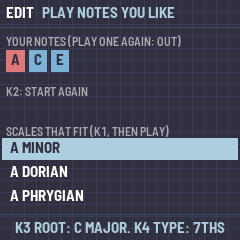
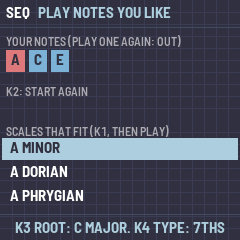
0.42: EDIT is pad edit (the window; SHIFT: LOCK); SEQ holds your notes, the scale, the root, the type
Claude-Session: https://claude.ai/code/session_011auXBbJuCRdHVG1fENKT8m

Changed region(s): [[0.0, 0.0292, 0.7292, 0.0875]]

diff --git a/app/app.c b/app/app.c
@@ -4,7 +4,7 @@
  * As MPS-16 ver WEB's SEED. CHORD KEYS (white 1-8), PROGRESSION KEYS (white 9-16), NOTE KEYS (black 1-7), the C pads
  * (BASS, NO BASS, NO ROOT, TAP). A change goes to the group played last; hold a key: that key (SELECT, PRESET, ALGO:
  * its group: sound or MIDI 1-4, the window's START, END). The buttons as they're named: HOME (held: SHIFT), EDIT your
- * notes, scale, root, type; SEL the library; ARP the rhythm (SHIFT: UNDO); SEQ the window (SHIFT: LOCK); ENV the
+ * pad edit, the window (SHIFT: LOCK); SEQ your notes, scale, root, type; SEL the library; ARP the rhythm (SHIFT: UNDO); ENV the
  * notes' shape; LFO the groove; FX SOUND (held: SETUP; SHIFT: COACH); SAVE (held: LOAD); PLAY and REC the looper;
  * GLO STOP ALL; OCT- / OCT+ octave. MIDI over USB and Bluetooth, clock out and in.
  *
@@ -2249,18 +2249,18 @@ buttons:
                 ev_push(QE_PSTART, PREVIEW, 100);
             } else
                 loop_play();
-        } else if (i == B_EDIT) {        /* EDIT: what the keys hold: your notes, the scale, the root, the type */
+        } else if (i == B_SEQ) {         /* SEQ: what the keys hold: your notes, the scale, the root, the type */
             if (ui.screen == SCR_PICK)
                 ui.screen = SCR_HOME;
             else {
                 pick_enter();
-                app_say("EDIT", "PLAY NOTES YOU LIKE");
+                app_say("SEQ", "PLAY NOTES YOU LIKE");
             }
         } else if (i == B_SEL) {         /* LIB */
             ui.screen = ui.screen == SCR_LIB ? SCR_HOME : SCR_LIB;
-        } else if (i == B_SEQ || i == B_ENV || i == B_LFO) {   /* the key pages; SHIFT + SEQ: LOCK */
-            uint8_t pg = i == B_SEQ ? PG_SEQ : i == B_ENV ? PG_ENV : PG_LFO;
-            if (i == B_SEQ && shift()) {
+        } else if (i == B_EDIT || i == B_ENV || i == B_LFO) {   /* EDIT: pad edit (the window); SHIFT + EDIT: LOCK */
+            uint8_t pg = i == B_EDIT ? PG_SEQ : i == B_ENV ? PG_ENV : PG_LFO;
+            if (i == B_EDIT && shift()) {
                 if (ui.pad < 0 || pads[ui.pad].type == PAD_EMPTY)
                     app_say("LOCK", "PLAY A KEY FIRST");
                 else {
@@ -2473,7 +2473,7 @@ buttons:
             char t[12];
             if (ui.page == PG_SEQ) {
                 if (k1 || k2 || k3 || k4)
-                    app_say("SEQ", "PRESET: START. ALGO: END");
+                    app_say("EDIT", "PRESET: START. ALGO: END");
             } else if (r < 0) {          /* the note keys: HUMANIZE only */
                 if (k2 && ui.page == PG_ENV) {
                     set.nhum = (uint8_t)clamp(set.nhum + 5 * k2, 0, 50);
@@ -2686,7 +2686,7 @@ static void lights(void)
         if (ui.coach == CS_NOTES && !fd_n && blink)
             for (i = 0; i < NKEYS; i++)
                 dim |= 1u << i;
-        btn = 1u << B_EDIT;
+        btn = 1u << B_SEQ;
         if (fd_cnt && (ui.coach != CS_SCALE || blink))
             btn |= 1u << B_PLAY;
         plat_lights(btn | ui.btn, bright, 1u << B_GLO, dim, 1);
@@ -2742,9 +2742,9 @@ static void lights(void)
         btn |= 1u << B_REC;
     if (lp_run != LR_STOP)
         btn |= 1u << B_PLAY;
-    btn |= 1u << (ui.screen == SCR_LIB ? B_SEL : ui.screen == SCR_PAD ? (ui.page == PG_SEQ ? B_SEQ : ui.page == PG_ENV ? B_ENV : B_LFO)
+    btn |= 1u << (ui.screen == SCR_LIB ? B_SEL : ui.screen == SCR_PAD ? (ui.page == PG_SEQ ? B_EDIT : ui.page == PG_ENV ? B_ENV : B_LFO)
                   : ui.screen == SCR_SOUND ? B_FX
-                  : ui.screen == SCR_SETUP ? B_FX : ui.screen == SCR_LOOP ? B_REC : ui.screen == SCR_PICK ? B_EDIT
+                  : ui.screen == SCR_SETUP ? B_FX : ui.screen == SCR_LOOP ? B_REC : ui.screen == SCR_PICK ? B_SEQ
                   : B_HOME);
     plat_lights(btn | ui.btn, bright, 1u << B_GLO, dim, 1);
     plat_lights_mid(0, mid);
@@ -3016,7 +3016,7 @@ static void draw_pick_top(void)
     uint32_t i;
     int32_t x = 6;
     lab_begin();
-    top_bar("PICK NOTES", WATER_C);
+    top_bar("SEQ: YOUR NOTES", WATER_C);
     if (!fd_n) {
         text_c(44, &FONT_M, "PLAY NOTES", C_WHITE);
         text_c(72, &FONT_B, "ANY KEYS, AS MANY AS YOU LIKE", LAB_LABEL);
@@ -3254,7 +3254,7 @@ static void draw_pad(void)               /* EDIT: the group played last (or the 
     static const char *const LBE[4] = {"K1 LENGTH", "K2 HUMAN", "K3 VELOCITY", "K4 STRUM"};
     static const char *const LBL_[4] = {"K1 SWING", "K2 SPEED", "K3 INVERT", "K4"};
     static const char *const LB2[3] = {"SELECT SOUND", "PRESET START", "ALGO END"};
-    static const char *const PGN[3] = {"SEQ ", "ENV ", "LFO "};
+    static const char *const PGN[3] = {"EDIT ", "ENV ", "LFO "};
     const char *const *LBL = ui.page == PG_LFO ? LBL_ : LBE;
     uint32_t k;
     lab_begin();

diff --git a/app/docs/MANUAL.md b/app/docs/MANUAL.md
@@ -13,10 +13,10 @@ This is an early test build by BeatSmith.
 2. [The first start: COACH](#2-the-first-start-coach)
 3. [The keys](#3-the-keys)
 4. [Home](#4-home)
-5. [EDIT: your notes, the key, the type](#5-edit-your-notes-the-key-the-type)
+5. [SEQ: your notes, the key, the type](#5-seq-your-notes-the-key-the-type)
 6. [LIB](#6-lib)
 7. [Hold a key: SELECT, PRESET, ALGO](#7-hold-a-key-select-preset-algo)
-8. [ARP, SEQ, ENV, LFO and LOCK](#8-arp-seq-env-lfo-and-lock)
+8. [EDIT, ARP, ENV, LFO and LOCK](#8-edit-arp-env-lfo-and-lock)
 9. [LOOP, UNDO, SAVE and LOAD](#9-loop-undo-save-and-load)
 10. [SOUND, MIDI and SETUP](#10-sound-midi-and-setup)
 11. [All the controls](#11-all-the-controls)
@@ -87,10 +87,10 @@ The buttons are named for what they do:
 | Button | Does |
 |---|---|
 | HOME | Home. Held: SHIFT |
-| EDIT | What the keys hold: your notes, the scale, the root, the chord type |
+| EDIT | Pad edit: the window, START and END, with the notes and playhead. SHIFT + EDIT: LOCK |
+| SEQ | What the keys hold: your notes, the scale, the root, the chord type |
 | SEL | LIB: chords and progressions to put on keys |
 | ARP | The RHYTHM of the group played last, one step a tap. SHIFT + ARP: UNDO |
-| SEQ | The window: START and END. SHIFT + SEQ: LOCK |
 | ENV | The notes' shape: LENGTH, HUMANIZE, VELOCITY, STRUM |
 | LFO | The groove: SWING, SPEED, INVERSION |
 | FX | SOUND. Held: SETUP. SHIFT + FX: COACH |
@@ -110,11 +110,11 @@ same value. LOCKed keys are left out of group changes.
 
 ![NO BASS](img/seed-home-nobass.png)
 
-## 5. EDIT: your notes, the key, the type
+## 5. SEQ: your notes, the key, the type
 
-![EDIT](img/seed-pick.png)
+![SEQ](img/seed-pick.png)
 
-Press **EDIT**. Every key is now a note, like a normal keyboard. Play the notes you like: each one you play is added,
+Press **SEQ**. Every key is now a note, like a normal keyboard. Play the notes you like: each one you play is added,
 and playing it again takes it out. The scales that hold all of them are listed below, best first (the first note
 you played as the root). Turn **K1** to choose one and press **PLAY**: the keys are rebuilt in that key.
 
@@ -125,7 +125,7 @@ you played as the root). Turn **K1** to choose one and press **PLAY**: the keys 
 | K3 | The key's root |
 | K4 | TYPE: TRIADS, 7THS, 9THS, SUS2, SUS4, ADD9 |
 
-EDIT again (or HOME) goes back.
+SEQ again (or HOME) goes back.
 
 ## 6. LIB
 
@@ -162,17 +162,17 @@ This is not note LENGTH (ENV K1), which is how long each note lasts.
 
 Parked for now, to be placed again: the key's root (set in PICK NOTES meanwhile), INVERSION and SWING.
 
-## 8. ARP, SEQ, ENV, LFO and LOCK
+## 8. EDIT, ARP, ENV, LFO and LOCK
 
-![SEQ](img/seed-padedit.png)
+![EDIT](img/seed-padedit.png)
 
 These shape how the keys play. Each change goes to the group played last, all set to the same value; hold a key
-while you turn a K knob and it goes to that key alone. The top of SEQ, ENV and LFO shows the notes of the key played
+while you turn a K knob and it goes to that key alone. The top of EDIT, ENV and LFO shows the notes of the key played
 last with the playhead, brown the lowest note, white the notes sounding now. Press the same button again for home.
 
 **ARP** steps the RHYTHM, no screen: HOLD, STABS, OFFBEAT, 3-3-2, SYNC, ARP UP, ARP DOWN, ARP UP-DN, ARP RANDOM.
 
-**SEQ** is the window: turn PRESET for START and ALGO for END here without holding a key (section 7).
+**EDIT** is pad edit, the window: turn PRESET for START and ALGO for END here without holding a key (section 7).
 
 **ENV**, the notes' shape:
 
@@ -197,7 +197,7 @@ The **note keys** sound while you hold them, so only HUMANIZE (ENV K2) applies t
 
 ![Note keys](img/seed-noteedit.png)
 
-**SHIFT + SEQ** is **LOCK**: it locks the key you played last, so it stays exactly as it is when the key, type or
+**SHIFT + EDIT** is **LOCK**: it locks the key you played last, so it stays exactly as it is when the key, type or
 bass mode changes, and group changes leave it out. Again unlocks it. A small corner marks a locked key.
 
 ## 9. LOOP, UNDO, SAVE and LOAD
@@ -259,15 +259,15 @@ MIDI goes out over **USB** and **Bluetooth** (the FM-1's TRS jack is MIDI in onl
 | Note keys (black 1 to 7) | The notes of the key, lit by the chord you played |
 | C pads (last 4 black keys) | BASS, NO BASS, NO ROOT (the group, or the key held), TAP |
 | HOME | Home. Held: SHIFT. In COACH: skip |
-| EDIT | Your notes, the scale (K1), the root (K3), the chord type (K4) |
+| EDIT | Pad edit: the window, PRESET START, ALGO END. HOME + EDIT: LOCK |
 | SEL | LIB |
 | ENV | The notes' shape: LENGTH, HUMANIZE, VELOCITY, STRUM |
 | LFO | The groove: SWING, SPEED, INVERSION |
 | FX | SOUND: every group's sound or MIDI channel. Held: SETUP. HOME + FX: COACH |
 | GLO | STOP ALL, always dim lit |
-| PLAY | The loop: armed, the intro and recording; playing, stop; stopped, play. SHIFT: clear the keys. In EDIT: use the scale. In LIB: hear it |
+| PLAY | The loop: armed, the intro and recording; playing, stop; stopped, play. SHIFT: clear the keys. In SEQ: use the scale. In LIB: hear it |
 | ARP | RHYTHM, a step a tap. HOME + ARP: UNDO (in LOOP: the last layer off) |
-| SEQ | The window: PRESET START, ALGO END. HOME + SEQ: LOCK |
+| SEQ | Your notes, the scale (K1), the root (K3), the chord type (K4) |
 | REC | LOOP: open it armed, recording on and off. HOME + REC: clear |
 | SAVE | Save. Held: LOAD |
-| OCT- / OCT+ | Octave: of the key you hold, else the group played last. In EDIT: the keyboard |
+| OCT- / OCT+ | Octave: of the key you hold, else the group played last. In SEQ: the keyboard |
